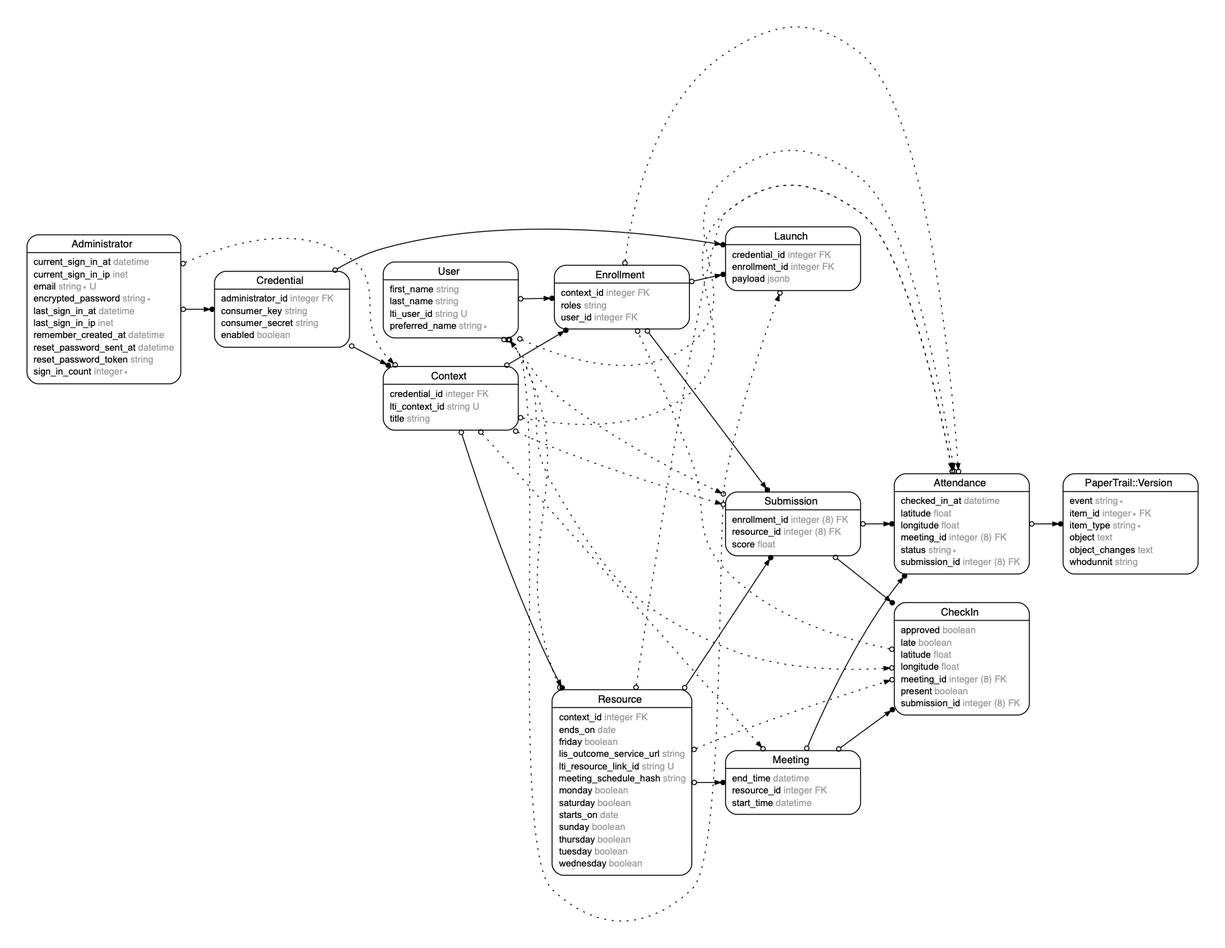
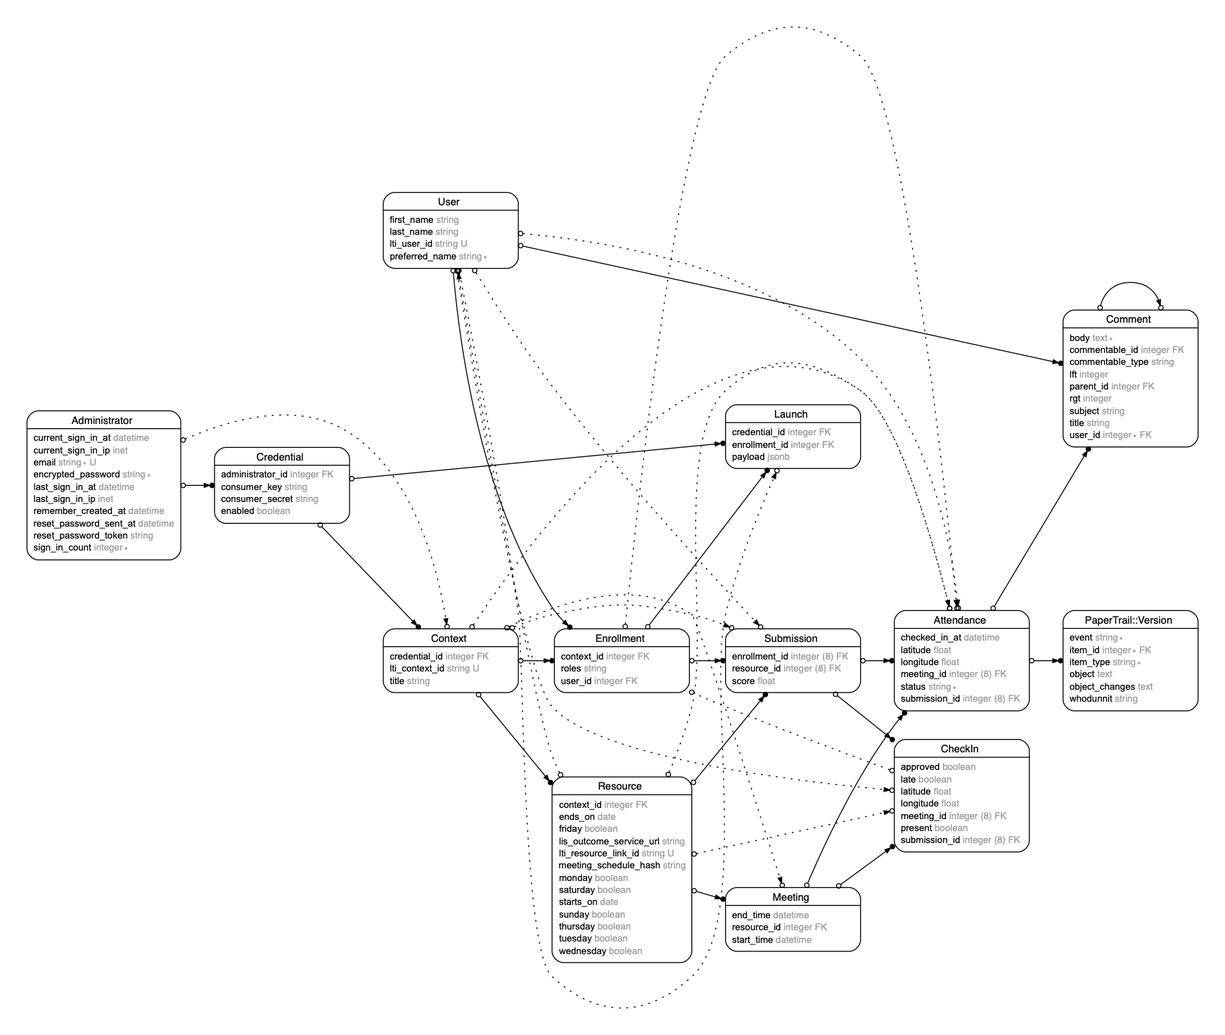
Add commenting for attendances
Install acts_as_commentable_with_threading

Create Comments controller

Get comment form ajax to work.

Shorten line lengths

Render comments and AJAX creation of comment

rubocoppin'

AJAX replace form to empty textarea after posting

Remove comments

Eliminate n+1 query

Remove text decoration

Update comment count upon commenting

Add commenting to teacher page

Remove unused callback

Disable LineLength Rubocop Cop for routes.rb

diff --git a/app/assets/stylesheets/comments.scss b/app/assets/stylesheets/comments.scss
@@ -1,0 +1,3 @@
+// Place all the styles related to the comments controller here.
+// They will automatically be included in application.css.
+// You can use Sass (SCSS) here: http://sass-lang.com/

diff --git a/app/assets/javascripts/comments.js b/app/assets/javascripts/comments.js
@@ -1,0 +1,2 @@
+// Place all the behaviors and hooks related to the matching controller here.
+// All this logic will automatically be available in application.js.

diff --git a/config/routes.rb b/config/routes.rb
@@ -22,74 +22,83 @@ Rails.application.routes.draw do
     patch "transition"
   end
   resources :check_ins, only: %i[create destroy edit show update]
+  resources :comments, only: %i[new create destroy update]
   resources :contexts, only: %i[index edit update show]
   resources :credentials, only: %i[index create destroy]
   resources :enrollments, only: []
   resource  :launch, only: :create
   resources :meetings
   resources :resources, only: %i[edit update show]
-  resource :user, only: %i[edit show update]
+  resource  :user, only: %i[edit show update]
 end
+
+# rubocop:disable Metrics/LineLength
 
 # == Route Map
 #
-#                            Prefix Verb   URI Pattern                                                                              Controller#Action
-#         new_administrator_session GET    /administrators/sign_in(.:format)                                                        devise/sessions#new
-#             administrator_session POST   /administrators/sign_in(.:format)                                                        devise/sessions#create
-#     destroy_administrator_session DELETE /administrators/sign_out(.:format)                                                       devise/sessions#destroy
-#        new_administrator_password GET    /administrators/password/new(.:format)                                                   devise/passwords#new
-#       edit_administrator_password GET    /administrators/password/edit(.:format)                                                  devise/passwords#edit
-#            administrator_password PATCH  /administrators/password(.:format)                                                       devise/passwords#update
-#                                   PUT    /administrators/password(.:format)                                                       devise/passwords#update
-#                                   POST   /administrators/password(.:format)                                                       devise/passwords#create
-# cancel_administrator_registration GET    /administrators/cancel(.:format)                                                         devise/registrations#cancel
-#    new_administrator_registration GET    /administrators/sign_up(.:format)                                                        devise/registrations#new
-#   edit_administrator_registration GET    /administrators/edit(.:format)                                                           devise/registrations#edit
-#        administrator_registration PATCH  /administrators(.:format)                                                                devise/registrations#update
-#                                   PUT    /administrators(.:format)                                                                devise/registrations#update
-#                                   DELETE /administrators(.:format)                                                                devise/registrations#destroy
-#                                   POST   /administrators(.:format)                                                                devise/registrations#create
-#                              root GET    /                                                                                        credentials#index
-#                                   GET    /                                                                                        contexts#index
-#                           landing GET    /landing(.:format)                                                                       application#landing
-#                 lti_user_sign_out GET    /sign_out(.:format)                                                                      users#sign_out
-#                            config GET    /config(.:format)                                                                        launches#xml_config
-#                           teacher GET    /teacher(.:format)                                                                       resources#teacher_backdoor
-#                           student GET    /student(.:format)                                                                       resources#student_backdoor
-#             attendance_transition PATCH  /attendances/:attendance_id/transition(.:format)                                         attendances#transition
-#                         check_ins POST   /check_ins(.:format)                                                                     check_ins#create
-#                     edit_check_in GET    /check_ins/:id/edit(.:format)                                                            check_ins#edit
-#                          check_in GET    /check_ins/:id(.:format)                                                                 check_ins#show
-#                                   PATCH  /check_ins/:id(.:format)                                                                 check_ins#update
-#                                   PUT    /check_ins/:id(.:format)                                                                 check_ins#update
-#                                   DELETE /check_ins/:id(.:format)                                                                 check_ins#destroy
-#                          contexts GET    /contexts(.:format)                                                                      contexts#index
-#                      edit_context GET    /contexts/:id/edit(.:format)                                                             contexts#edit
-#                           context GET    /contexts/:id(.:format)                                                                  contexts#show
-#                                   PATCH  /contexts/:id(.:format)                                                                  contexts#update
-#                                   PUT    /contexts/:id(.:format)                                                                  contexts#update
-#                       credentials GET    /credentials(.:format)                                                                   credentials#index
-#                                   POST   /credentials(.:format)                                                                   credentials#create
-#                        credential DELETE /credentials/:id(.:format)                                                               credentials#destroy
-#                            launch POST   /launch(.:format)                                                                        launches#create
-#                          meetings GET    /meetings(.:format)                                                                      meetings#index
-#                                   POST   /meetings(.:format)                                                                      meetings#create
-#                       new_meeting GET    /meetings/new(.:format)                                                                  meetings#new
-#                      edit_meeting GET    /meetings/:id/edit(.:format)                                                             meetings#edit
-#                           meeting GET    /meetings/:id(.:format)                                                                  meetings#show
-#                                   PATCH  /meetings/:id(.:format)                                                                  meetings#update
-#                                   PUT    /meetings/:id(.:format)                                                                  meetings#update
-#                                   DELETE /meetings/:id(.:format)                                                                  meetings#destroy
-#                     edit_resource GET    /resources/:id/edit(.:format)                                                            resources#edit
-#                          resource GET    /resources/:id(.:format)                                                                 resources#show
-#                                   PATCH  /resources/:id(.:format)                                                                 resources#update
-#                                   PUT    /resources/:id(.:format)                                                                 resources#update
-#                         edit_user GET    /user/edit(.:format)                                                                     users#edit
-#                              user GET    /user(.:format)                                                                          users#show
-#                                   PATCH  /user(.:format)                                                                          users#update
-#                                   PUT    /user(.:format)                                                                          users#update
-#                rails_service_blob GET    /rails/active_storage/blobs/:signed_id/*filename(.:format)                               active_storage/blobs#show
-#         rails_blob_representation GET    /rails/active_storage/representations/:signed_blob_id/:variation_key/*filename(.:format) active_storage/representations#show
-#                rails_disk_service GET    /rails/active_storage/disk/:encoded_key/*filename(.:format)                              active_storage/disk#show
-#         update_rails_disk_service PUT    /rails/active_storage/disk/:encoded_token(.:format)                                      active_storage/disk#update
-#              rails_direct_uploads POST   /rails/active_storage/direct_uploads(.:format)                                           active_storage/direct_uploads#create
+#                            Prefix Verb   URI Pattern                                                                               Controller#Action
+#         new_administrator_session GET    /administrators/sign_in(.:format)                                                         devise/sessions#new
+#             administrator_session POST   /administrators/sign_in(.:format)                                                         devise/sessions#create
+#     destroy_administrator_session DELETE /administrators/sign_out(.:format)                                                        devise/sessions#destroy
+#        new_administrator_password GET    /administrators/password/new(.:format)                                                    devise/passwords#new
+#       edit_administrator_password GET    /administrators/password/edit(.:format)                                                   devise/passwords#edit
+#            administrator_password PATCH  /administrators/password(.:format)                                                        devise/passwords#update
+#                                   PUT    /administrators/password(.:format)                                                        devise/passwords#update
+#                                   POST   /administrators/password(.:format)                                                        devise/passwords#create
+# cancel_administrator_registration GET    /administrators/cancel(.:format)                                                          devise/registrations#cancel
+#    new_administrator_registration GET    /administrators/sign_up(.:format)                                                         devise/registrations#new
+#   edit_administrator_registration GET    /administrators/edit(.:format)                                                            devise/registrations#edit
+#        administrator_registration PATCH  /administrators(.:format)                                                                 devise/registrations#update
+#                                   PUT    /administrators(.:format)                                                                 devise/registrations#update
+#                                   DELETE /administrators(.:format)                                                                 devise/registrations#destroy
+#                                   POST   /administrators(.:format)                                                                 devise/registrations#create
+#                              root GET    /                                                                                         credentials#index
+#                                   GET    /                                                                                         contexts#index
+#                           landing GET    /landing(.:format)                                                                        application#landing
+#                 lti_user_sign_out GET    /sign_out(.:format)                                                                       users#sign_out
+#                            config GET    /config(.:format)                                                                         launches#xml_config
+#           commentable_new_comment GET    /commentable_type/:commentable_type/commentable_id/:commentable_id/comments/new(.:format) comments#new
+#                           teacher GET    /teacher(.:format)                                                                        resources#teacher_backdoor
+#                           student GET    /student(.:format)                                                                        resources#student_backdoor
+#             attendance_transition PATCH  /attendances/:attendance_id/transition(.:format)                                          attendances#transition
+#                         check_ins POST   /check_ins(.:format)                                                                      check_ins#create
+#                     edit_check_in GET    /check_ins/:id/edit(.:format)                                                             check_ins#edit
+#                          check_in GET    /check_ins/:id(.:format)                                                                  check_ins#show
+#                                   PATCH  /check_ins/:id(.:format)                                                                  check_ins#update
+#                                   PUT    /check_ins/:id(.:format)                                                                  check_ins#update
+#                                   DELETE /check_ins/:id(.:format)                                                                  check_ins#destroy
+#                          comments POST   /comments(.:format)                                                                       comments#create
+#                       new_comment GET    /comments/new(.:format)                                                                   comments#new
+#                           comment PATCH  /comments/:id(.:format)                                                                   comments#update
+#                                   PUT    /comments/:id(.:format)                                                                   comments#update
+#                                   DELETE /comments/:id(.:format)                                                                   comments#destroy
+#                          contexts GET    /contexts(.:format)                                                                       contexts#index
+#                      edit_context GET    /contexts/:id/edit(.:format)                                                              contexts#edit
+#                           context GET    /contexts/:id(.:format)                                                                   contexts#show
+#                                   PATCH  /contexts/:id(.:format)                                                                   contexts#update
+#                                   PUT    /contexts/:id(.:format)                                                                   contexts#update
+#                       credentials GET    /credentials(.:format)                                                                    credentials#index
+#                                   POST   /credentials(.:format)                                                                    credentials#create
+#                        credential DELETE /credentials/:id(.:format)                                                                credentials#destroy
+#                            launch POST   /launch(.:format)                                                                         launches#create
+#                          meetings GET    /meetings(.:format)                                                                       meetings#index
+#                                   POST   /meetings(.:format)                                                                       meetings#create
+#                       new_meeting GET    /meetings/new(.:format)                                                                   meetings#new
+#                      edit_meeting GET    /meetings/:id/edit(.:format)                                                              meetings#edit
+#                           meeting GET    /meetings/:id(.:format)                                                                   meetings#show
+#                                   PATCH  /meetings/:id(.:format)                                                                   meetings#update
+#                                   PUT    /meetings/:id(.:format)                                                                   meetings#update
+#                                   DELETE /meetings/:id(.:format)                                                                   meetings#destroy
+#                     edit_resource GET    /resources/:id/edit(.:format)                                                             resources#edit
+#                          resource GET    /resources/:id(.:format)                                                                  resources#show
+#                                   PATCH  /resources/:id(.:format)                                                                  resources#update
+#                                   PUT    /resources/:id(.:format)                                                                  resources#update
+#                         edit_user GET    /user/edit(.:format)                                                                      users#edit
+#                              user GET    /user(.:format)                                                                           users#show
+#                                   PATCH  /user(.:format)                                                                           users#update
+#                                   PUT    /user(.:format)                                                                           users#update
+#                rails_service_blob GET    /rails/active_storage/blobs/:signed_id/*filename(.:format)                                active_storage/blobs#show
+#         rails_blob_representation GET    /rails/active_storage/representations/:signed_blob_id/:variation_key/*filename(.:format)  active_storage/representations#show
+#                rails_disk_service GET    /rails/active_storage/disk/:encoded_key/*filename(.:format)                               active_storage/disk#show
+#         update_rails_disk_service PUT    /rails/active_storage/disk/:encoded_token(.:format)                                       active_storage/disk#update
+#              rails_direct_uploads POST   /rails/active_storage/direct_uploads(.:format)                                            active_storage/direct_uploads#create

diff --git a/app/models/comment.rb b/app/models/comment.rb
@@ -1,0 +1,66 @@
+# == Schema Information
+#
+# Table name: comments
+#
+#  id               :bigint(8)        not null, primary key
+#  commentable_id   :integer
+#  commentable_type :string
+#  title            :string
+#  body             :text
+#  subject          :string
+#  user_id          :integer          not null
+#  parent_id        :integer
+#  lft              :integer
+#  rgt              :integer
+#  created_at       :datetime         not null
+#  updated_at       :datetime         not null
+#
+
+class Comment < ActiveRecord::Base
+  acts_as_nested_set scope: %i[commentable_id commentable_type]
+
+  validates :body, presence: true
+  validates :user, presence: true
+
+  # NOTE: install the acts_as_votable plugin if you
+  # want user to vote on the quality of comments.
+  # acts_as_votable
+
+  belongs_to :commentable, polymorphic: true
+
+  # NOTE: Comments belong to a user
+  belongs_to :user
+
+  # Helper class method that allows you to build a comment
+  # by passing a commentable object, a user_id, and comment text
+  # example in readme
+  def self.build_from(obj, user_id, comment)
+    new \
+      commentable: obj,
+      body: comment,
+      user_id: user_id
+  end
+
+  # helper method to check if a comment has children
+  def has_children?
+    children.any?
+  end
+
+  # Helper class method to lookup all comments assigned
+  # to all commentable types for a given user.
+  scope :find_comments_by_user, lambda { |user|
+    where(user_id: user.id).order("created_at DESC")
+  }
+
+  # Helper class method to look up all comments for
+  # commentable class name and commentable id.
+  scope :find_comments_for_commentable, lambda { |commentable_str, commentable_id|
+    where(commentable_type: commentable_str.to_s, commentable_id: commentable_id).order("created_at DESC")
+  }
+
+  # Helper class method to look up a commentable object
+  # given the commentable class name and id
+  def self.find_commentable(commentable_str, commentable_id)
+    commentable_str.constantize.find(commentable_id)
+  end
+end

diff --git a/db/schema.rb b/db/schema.rb
@@ -10,7 +10,7 @@
 #
 # It's strongly recommended that you check this file into your version control system.
 
-ActiveRecord::Schema.define(version: 2019_02_27_214602) do
+ActiveRecord::Schema.define(version: 2019_03_26_164424) do
 
   # These are extensions that must be enabled in order to support this database
   enable_extension "plpgsql"
@@ -58,6 +58,22 @@ ActiveRecord::Schema.define(version: 2019_02_27_214602) do
     t.bigint "submission_id"
     t.index ["meeting_id"], name: "index_check_ins_on_meeting_id"
     t.index ["submission_id"], name: "index_check_ins_on_submission_id"
+  end
+
+  create_table "comments", force: :cascade do |t|
+    t.integer "commentable_id"
+    t.string "commentable_type"
+    t.string "title"
+    t.text "body"
+    t.string "subject"
+    t.integer "user_id", null: false
+    t.integer "parent_id"
+    t.integer "lft"
+    t.integer "rgt"
+    t.datetime "created_at", null: false
+    t.datetime "updated_at", null: false
+    t.index ["commentable_id", "commentable_type"], name: "index_comments_on_commentable_id_and_commentable_type"
+    t.index ["user_id"], name: "index_comments_on_user_id"
   end
 
   create_table "contexts", force: :cascade do |t|

diff --git a/app/controllers/comments_controller.rb b/app/controllers/comments_controller.rb
@@ -1,0 +1,36 @@
+class CommentsController < ApplicationController
+  def new
+    @comment = Comment.new(
+      commentable_type: params[:commentable_type],
+      commentable_id: params[:commentable_id],
+      user: current_user,
+    )
+  end
+
+  def create
+    @comment = Comment.new(comment_params)
+    @comment.user = current_user
+
+    @comment.save
+  end
+
+  private
+
+  def set_comment
+    @comment = Comment.find(params[:id])
+  end
+
+  def comment_params
+    params.require(:comment).permit(
+      :commentable_id,
+      :commentable_type,
+      :title,
+      :body,
+      :subject,
+      :user_id,
+      :parent_id,
+      :lft,
+      :rgt,
+    )
+  end
+end

diff --git a/db/migrate/20190326164424_acts_as_commentable_with_threading_migration.rb b/db/migrate/20190326164424_acts_as_commentable_with_threading_migration.rb
@@ -1,0 +1,21 @@
+class ActsAsCommentableWithThreadingMigration < ActiveRecord::Migration[5.2]
+  def self.up
+    create_table :comments, force: true do |t|
+      t.integer :commentable_id
+      t.string :commentable_type
+      t.string :title
+      t.text :body
+      t.string :subject
+      t.integer :user_id, null: false
+      t.integer :parent_id, :lft, :rgt
+      t.timestamps
+    end
+
+    add_index :comments, :user_id
+    add_index :comments, %i[commentable_id commentable_type]
+  end
+
+  def self.down
+    drop_table :comments
+  end
+end

diff --git a/spec/helpers/comments_helper_spec.rb b/spec/helpers/comments_helper_spec.rb
@@ -1,0 +1,15 @@
+require "rails_helper"
+
+# Specs in this file have access to a helper object that includes
+# the CommentsHelper. For example:
+#
+# describe CommentsHelper do
+#   describe "string concat" do
+#     it "concats two strings with spaces" do
+#       expect(helper.concat_strings("this","that")).to eq("this that")
+#     end
+#   end
+# end
+RSpec.describe CommentsHelper, type: :helper do
+  pending "add some examples to (or delete) #{__FILE__}"
+end

diff --git a/app/models/attendance.rb b/app/models/attendance.rb
@@ -19,8 +19,10 @@
 #
 
 class Attendance < ApplicationRecord
-  include AASM
+  acts_as_commentable
   has_paper_trail
+  include AASM
+
   after_save :update_submission
 
   belongs_to :meeting

diff --git a/spec/controllers/comments_controller_spec.rb b/spec/controllers/comments_controller_spec.rb
@@ -1,0 +1,4 @@
+require "rails_helper"
+
+RSpec.describe CommentsController, type: :controller do
+end

diff --git a/app/helpers/comments_helper.rb b/app/helpers/comments_helper.rb
@@ -1,0 +1,2 @@
+module CommentsHelper
+end
